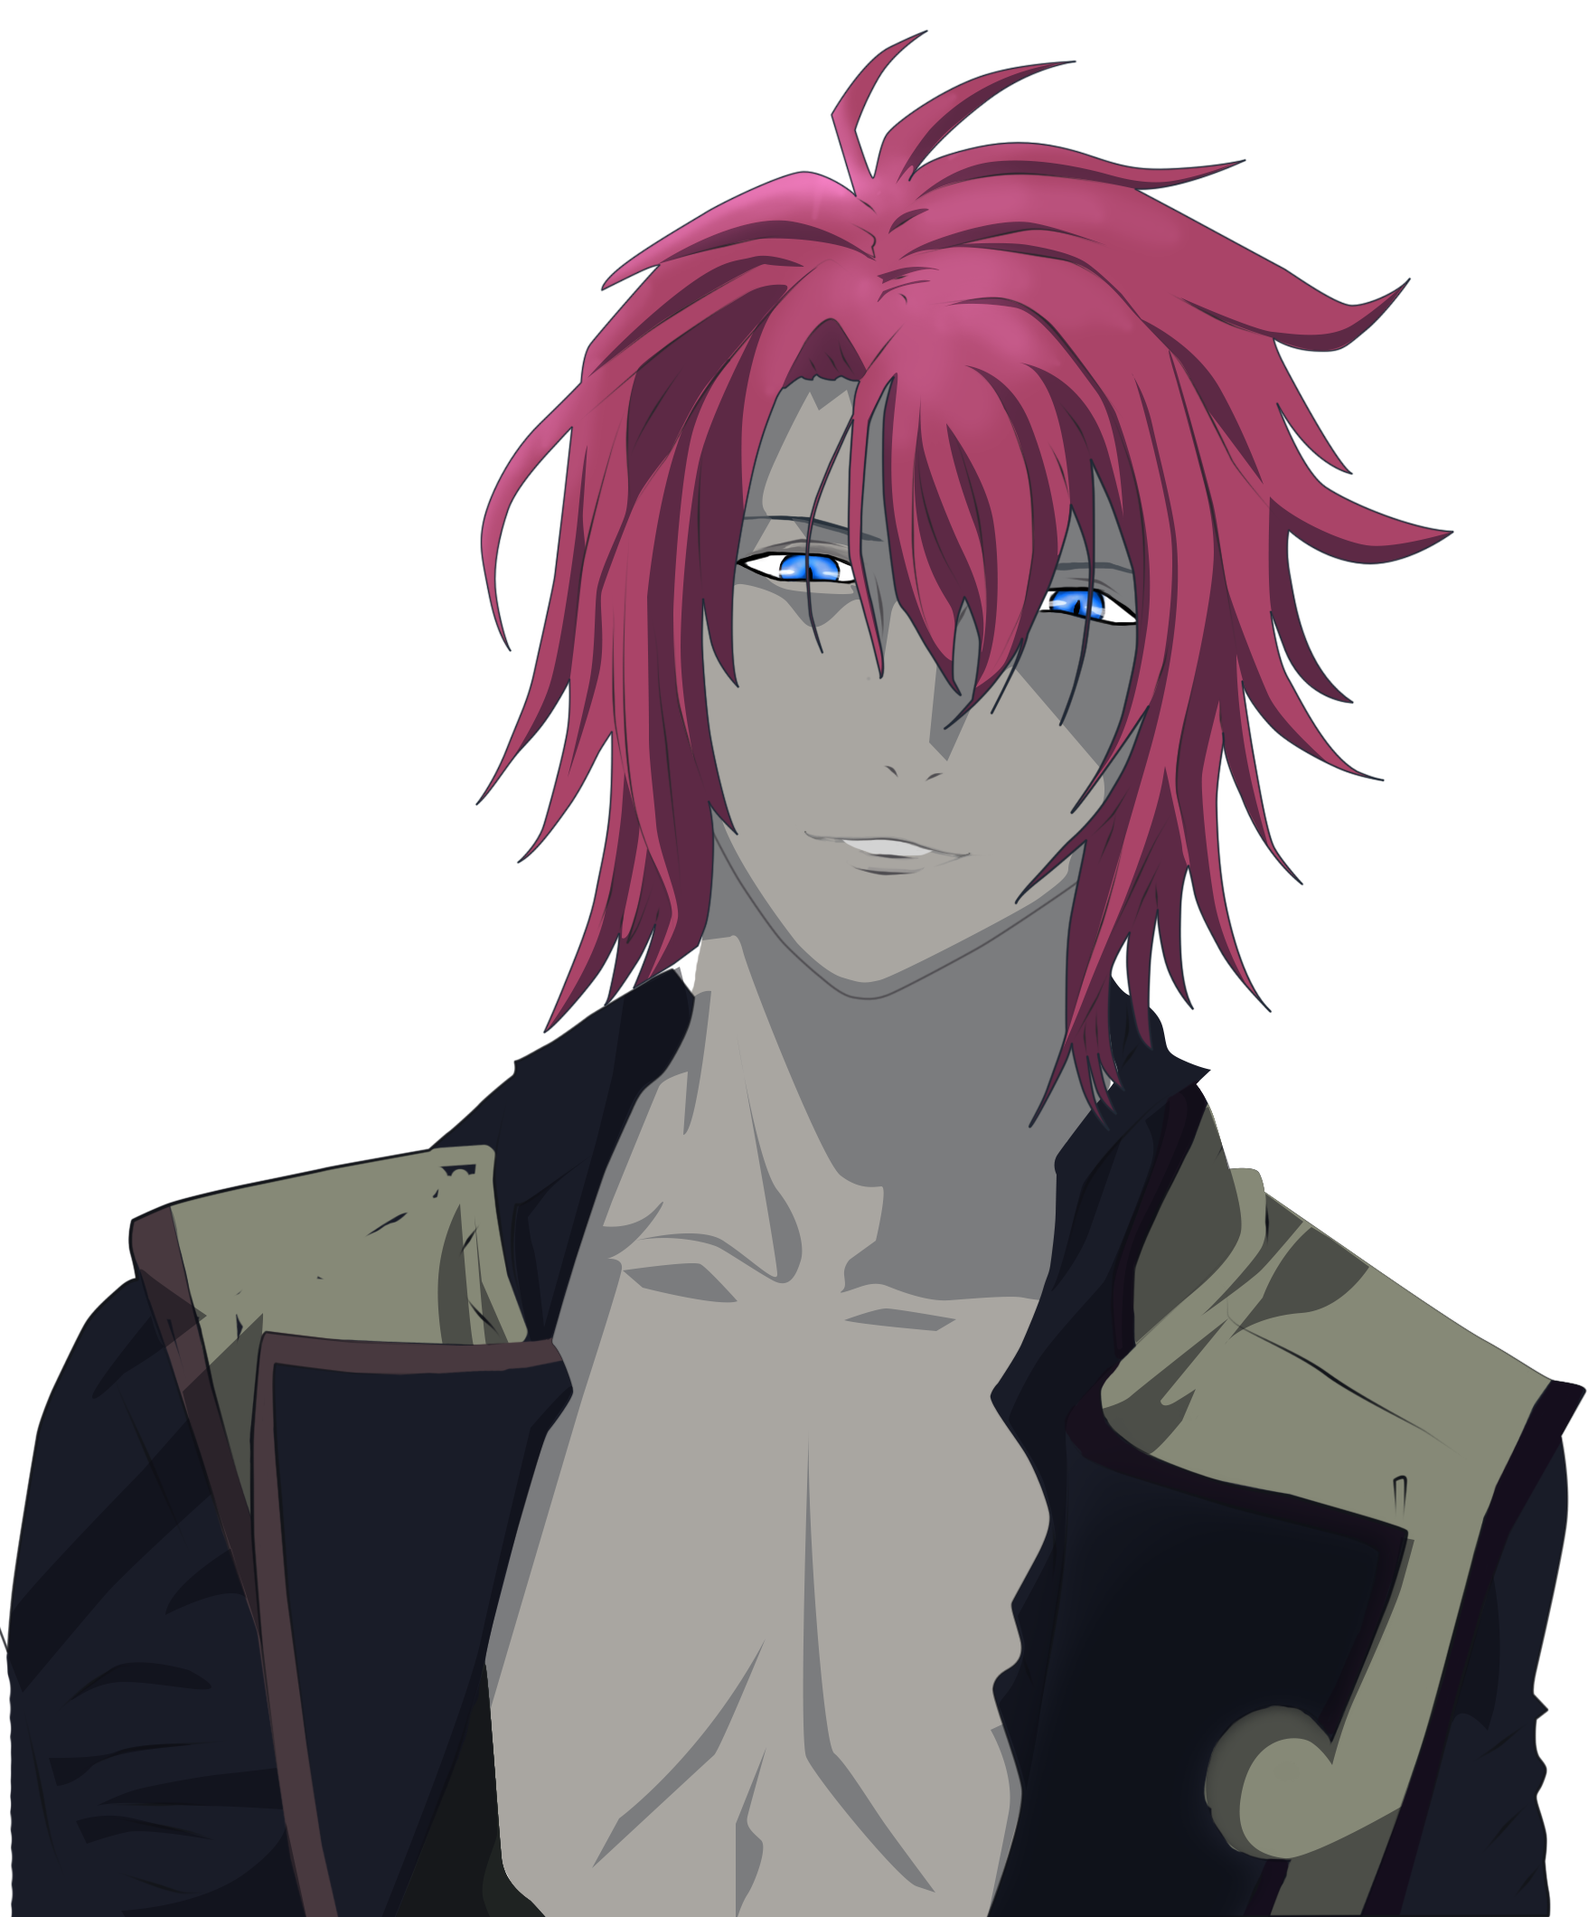
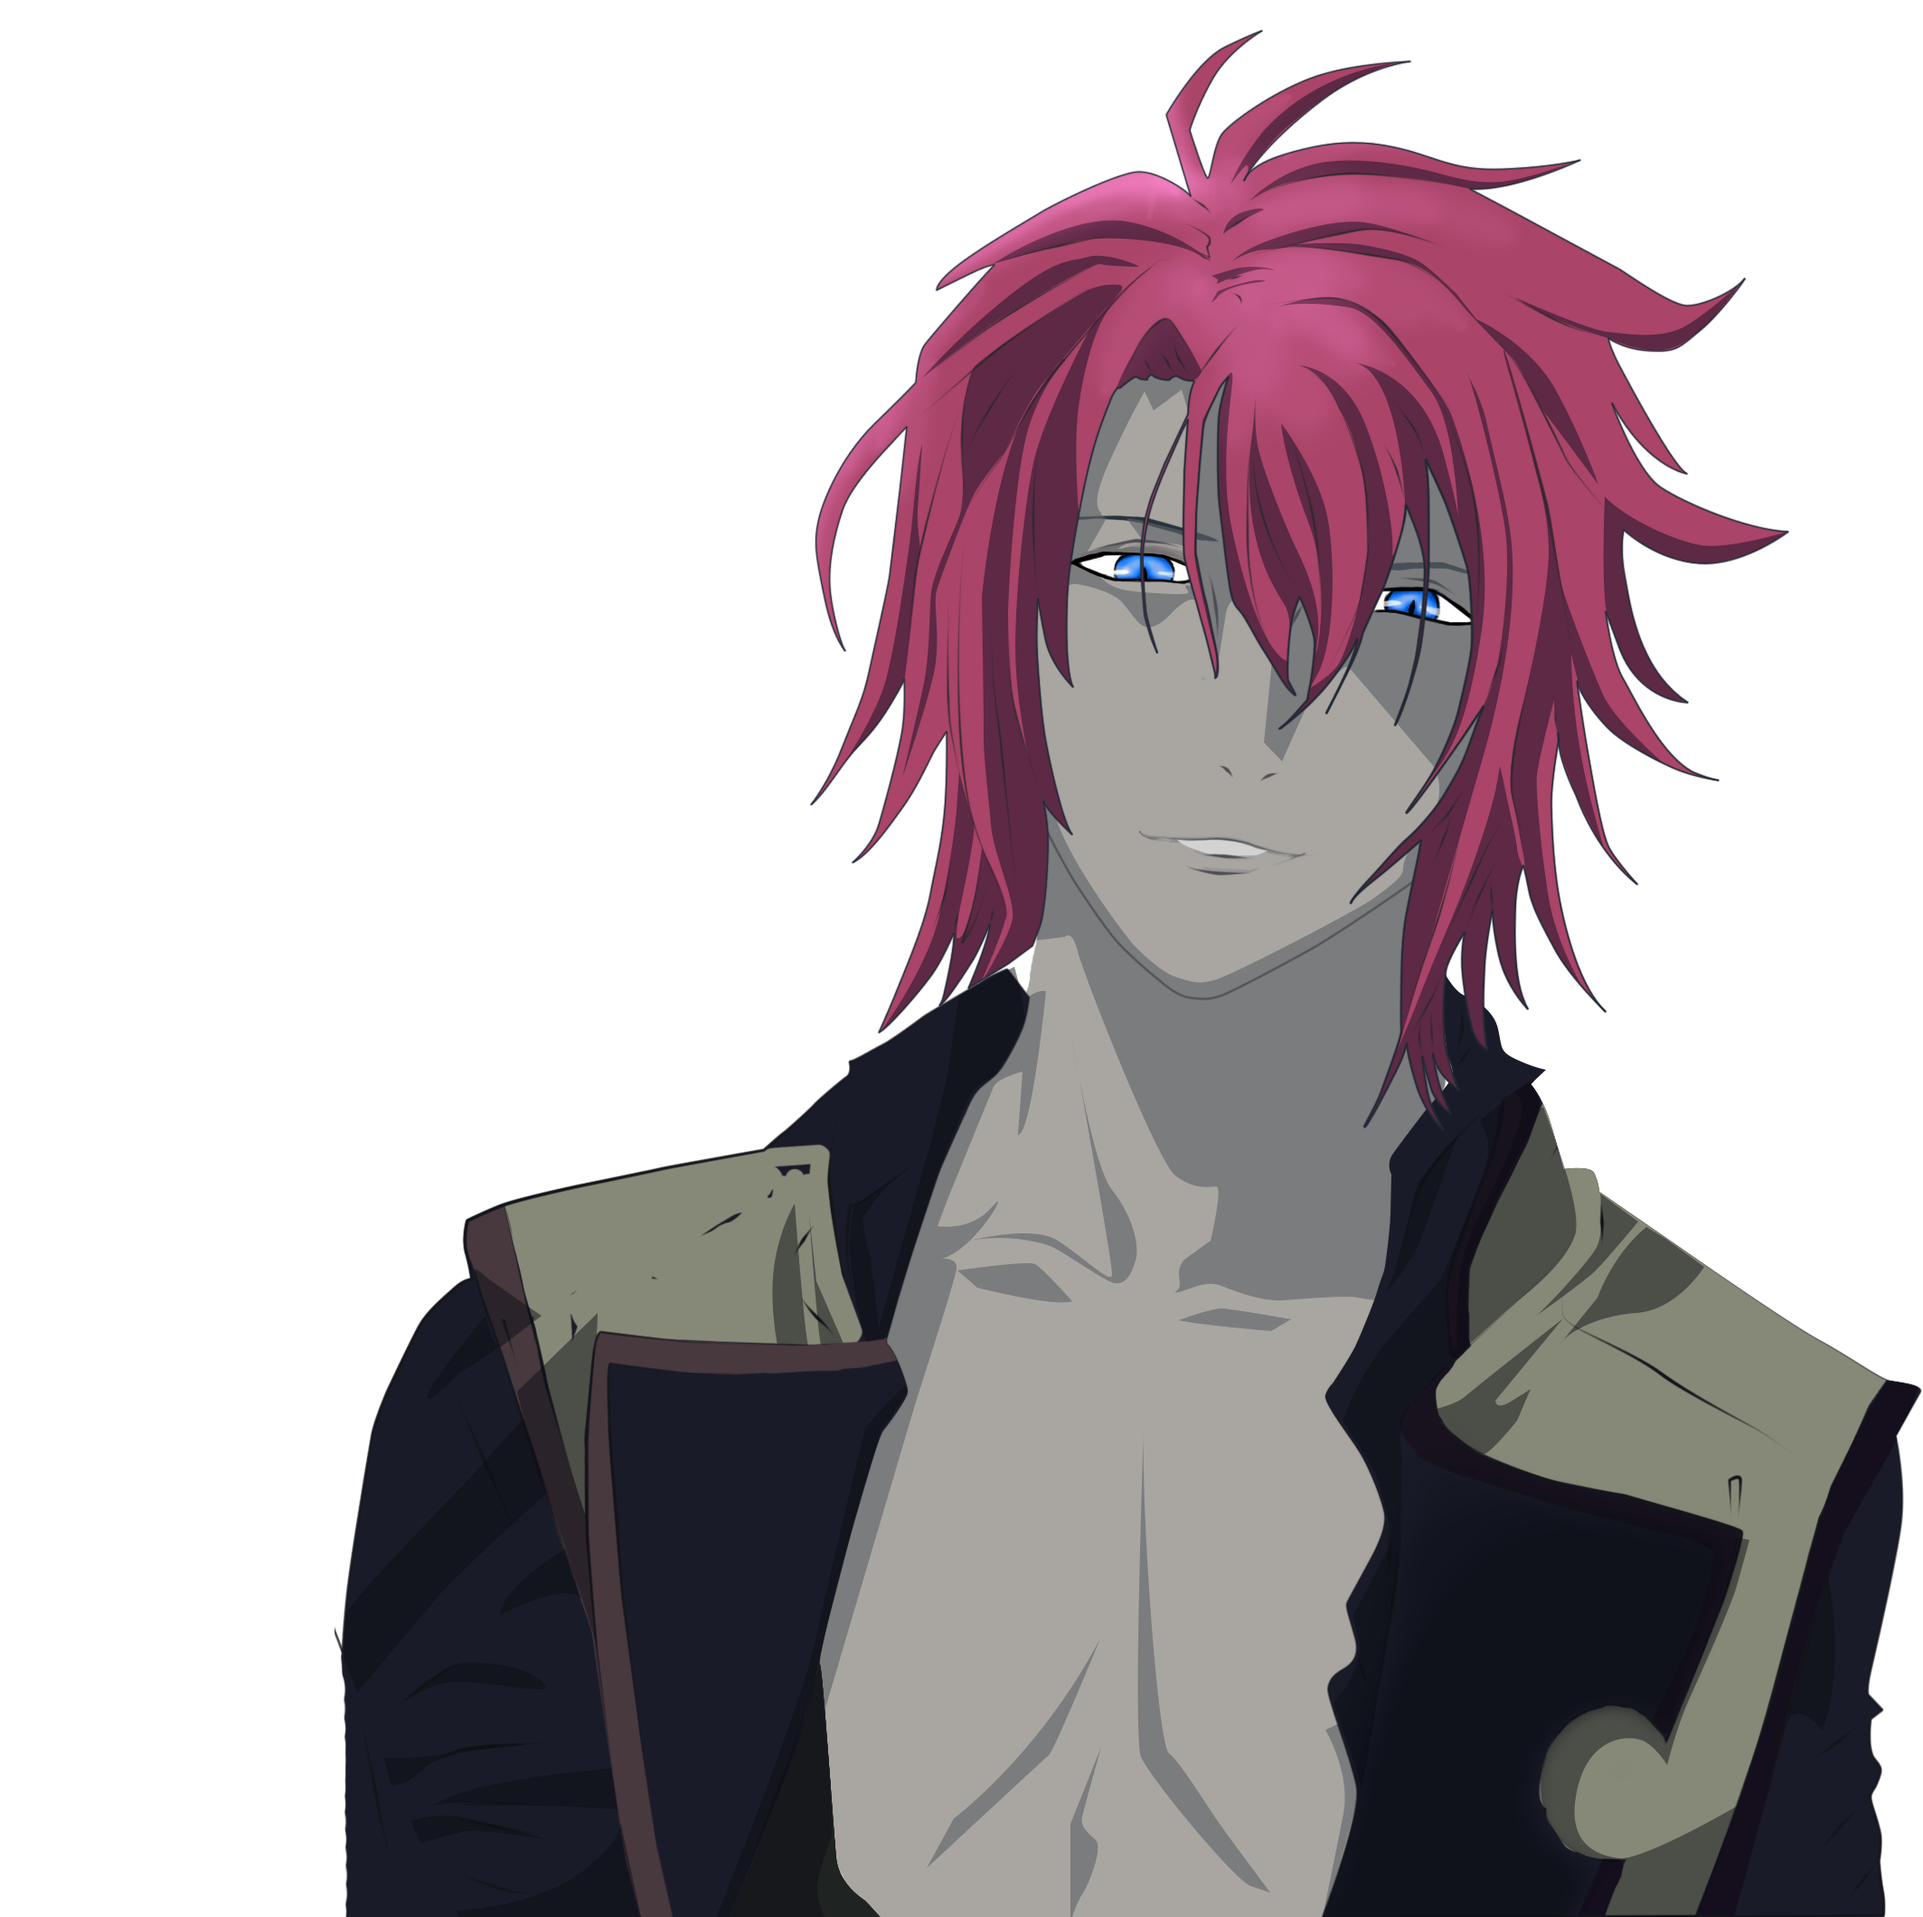
modif

diff --git a/www/js/otomeapp.js b/www/js/otomeapp.js
@@ -1,22 +1,63 @@
-let merci = new Question ("Je t'en prie. J'aurai cependant quelques questions à te poser...", [
-  new Answer("A propos de quoi ?"),
+let tuLeDis = new Question ("Passons aux sérieuses, je ne sais pas comment tu t'es retrouvé ici mais t'es vraiment dans le pétrin", [
+  new Answer("Bien sûr, je t'écoute."),
   new Answer("On peut attendre que je reprennes des forces ?"),
-  new Answer("Bien sûr, je t'écoute.")
+  new Answer("Et tu crois me faire peur.. J'en ai vue bien pire que toi mon choux!")
+]);
+
+let aQuiJeParle = new Question ("L'heure n'est pas au présentation! Tu es en danger, si ils te trouvent ici...", [
+  new Answer("Qui ils, arretes tu me fais peur ."),
+  new Answer("ok, on garde son calme"),
+  new Answer("Je suis prete à les acceuillires")
+]);
+
+let commentCa = new Question ("J'ai pas l'impression que tu comprennes dans quelle situation tu t'es mises", [
+  new Answer("Comment, je ne comprends pas... Je n'ai rien demandé"),
+  new Answer(" mais de quoi tu me parles.. quelle situation?" ),
+  new Answer("Relax Moi je m'adaptes à n'importe quel situation!", [])
+]);
+
+let maMere = new Question ("Du calme, on en est pas encore à là voyons", [
+  new Answer("... (rougis)"),
+  new Answer("mais tu plaisantes, je blaguais tout à l'heure.. Je veux rien à faire avec toi.. d'ailleurs je m'en vais"),
+  new Answer("ça me plait bien tout ça")
+]);
+
+let suisFoutu = new Question ("T'as rien à craindre si tu réponds bien à mes questions", [
+  new Answer("vas-y, je t'écoute."),
+  new Answer("On peut attendre que je reprennes des forces avant la séance interrogatoire?!"),
+  new Answer("Pourquoi je devrais répondre à tes questions d'abord?")
+]);
+
+let galopin = new Question ("Je te conseillerai de me parler sur un autre ton si tu ne veux pas que je me faches.", [
+  new Answer("Oui Mr le bizarroide, a vos ordre."),
+  new Answer("nia nia nia ?"),
+  new Answer("Et tu crois me faire peur.. J'en ai vue bien pire que toi mon choux!")
+]);
+
+let laiss = new Question("A");
+let laissaaa = new Question("B");
+let laissuuu = new Question("C");
+let laisserAttache = new Question ("À ce que je vois t'es une petite coquine...Je suis désolé mais on a pas le temps à ça", [
+  new Answer("c'est bon ça va relax?", laiss),
+  new Answer("t'es pas un marrant toi!", laissaaa),
+  new Answer("Oui je sais, on me le dit souvent.", laissuuu)
 ]);
 let quiEsTu = new Question("Moi ? Ca n'a pas d'importance...", [
-  new Answer("Comment ça ?"),
-  new Answer("Je préfèrerai savoir à qui je parle..."),
-  new Answer("Si tu le dis...")
+  new Answer("Comment ça ?", commentCa ),
+  new Answer("Je préfèrerai savoir à qui je parle...", aQuiJeParle),
+  new Answer("Si tu le dis...", tuLeDis)
 ]);
-let ouSommesNous = new Question ("Nous sommes au QG de l'Alliance.", [
-  new Answer("L’alliance ?", -15),
-  new Answer("Je suis vraiment mal tombé...", -5),
-  new Answer("Dieu merci !", 10)
+
+let ouSommesNous = new Question ("Tu le sauras bien assez tôt petit galopin.", [
+  new Answer("Je ne suis pas ton petit galopin sac à patate", galopin,-25),
+  new Answer("Ça y est, je suis foutu...",suisFoutu ,-5),
+  new Answer("Ma mère m'appelait comme ça ! ça me plait bien ",maMere, 10)
 ]);
+
 let firstQuestion = new Question ("Tu es réveillé! Désolé pour ce traitement, je vais te détacher...", [
-  new Answer("Où somme nous ?", ouSommesNous, -10),
-  new Answer("Qui es-tu ??", quiEsTu, -20),
-  new Answer("Merci...", merci, 40)
+  new Answer("Où sommes-nous ? Ne t'approche pas de moi !", ouSommesNous, -10),
+  new Answer("Qui es-tu ? Qu'est-ce que je fais là ?", quiEsTu, -20),
+  new Answer("..ou tu peux me laisser attaché beau gosse...", laisserAttache, 40)
 ]);
 
 let currentQuestion = firstQuestion;
@@ -24,6 +65,7 @@ let moodbar = 25;
 
 let section = document.querySelector('#button');
 let moodbarProgress = document.querySelector('.hideb');
+let orage = document.querySelector('.orage');
 
 let prota = new Character('taurus', 'O+', 'green');
 let wWalker = new Character('taurus', 'A+', 'green');
@@ -46,9 +88,25 @@ if (prota.colors === wWalker.colors) {
 
 display();
 
+/*
+showOrage();
+function showOrage() {
+  setTimeout(function () {
+    orage.classList.add('orage-animation');
+    setTimeout(function() {
+      orage.classList.remove('orage-animation');
+      showOrage();
+    }, 1000);
+  }, 0);
+}
+*/
+
 function display (){
   if (moodbar <= 30) {
+   
     document.querySelector('.characterA').style.display = "block";
+  }else {
+    document.querySelector('.characterA').style.display = "none"; 
   }
 
   if (moodbar >= 50) {

diff --git a/www/css/otome.css b/www/css/otome.css
@@ -4,6 +4,7 @@ body {
 }
 
 .container {
+  display: block;
   position: relative;
   width: 1100px;
   height: 550px;
@@ -14,6 +15,7 @@ body {
   margin: 50px auto;
   border-radius: 25px;
   box-shadow: 0px 0px 10px 3px rgba(15, 12, 20, 0.651);
+  overflow: hidden;
 }
 
 .rain {
@@ -21,8 +23,55 @@ body {
   height: 550px;
   border-radius: 25px;
   position: absolute;
-  opacity: 0.2;
+  opacity: 0.3;
+}
+
+@keyframes orage {
+  0% {
+    opacity: 0;
+  }
+
+  2% {
+    opacity: 0.9;
+  }
+
+  6% {
+    opacity: 0.2;
+  }
+
+  12% {
+    opacity: 0.5;
+  }
+
+  16% {
+    opacity: 0.2;
+  }
+
+  20% {
+    opacity: 0.6;
+  }
+
+  30% {
+    opacity: 0;
+  }
   
+  100% {
+    opacity: 0;
+  }
+}
+
+.orage {
+  position: absolute;
+  top: 0;
+  left: 0;
+  width: 100%;
+  height: 100%;
+  background: linear-gradient(35deg, rgba(255,255,255,0) 0%,rgb(217, 252, 249) 100%);
+  opacity: 0;
+  animation-name: orage;
+  animation-duration: 4s;
+  animation-timing-function: ease-in;
+  animation-iteration-count: infinite;
 }
 
 .barre {
@@ -66,10 +115,11 @@ body {
 .character {
   position: absolute;
   bottom: 0;
-  width: 439px;
+  width: 532px;
   height: 530px;
   background-image: url('/image/soujitransfpers.png');
   background-size: 100%;
+  background-repeat: no-repeat;
   z-index: 0;
   left: 40%;
   
@@ -79,11 +129,13 @@ body {
   display: none;
   bottom: 0;
   position: absolute;
-  z-index: 2;
-  width: 439px;
+  z-index: 1;
+  width: 532px;
   height: 530px;
   background-size: 100%;
-  background-image: url('/image/SoujiAngry.png');
+  background-image: url('/image/soujiAngry.png');
+  background-repeat: no-repeat;
+  
   left: 40%;
 }
 
@@ -91,12 +143,65 @@ body {
   display: none;  
   bottom: 0;
   position: absolute;
-  width: 439px;
+  width: 532px;
   height: 530px;
   left: 40%;  
   background-size: 100%;
-  z-index: 2;
-  background-image: url('/image/SoujiHappy.png');
+  z-index: 1;
+  background-image: url('/image/soujiHappy.png');
+  background-repeat: no-repeat;
+  
+}
+
+@keyframes vampire {
+  0% {
+    opacity: 0;
+  }
+
+  1% {
+    opacity: 0.9;
+  }
+
+  3% {
+    opacity: 0.2;
+  }
+
+  6% {
+    opacity: 0.5;
+  }
+
+  8% {
+    opacity: 0.2;
+  }
+
+  10% {
+    opacity: 0.6;
+  }
+
+  15% {
+    opacity: 0;
+  }
+  
+  100% {
+    opacity: 0;
+  }
+}
+
+.characterV {  
+  bottom: 0;
+  position: absolute;
+  width: 532px;
+  height: 530px;
+  left: 40%;  
+  background-size: 100%;
+  z-index: 1;
+  background-image: url('/image/soujiVampire.png');
+  background-repeat: no-repeat;
+  opacity: 0;
+  animation-name: vampire;
+  animation-duration: 8s;
+  animation-timing-function: ease-in;
+  animation-iteration-count: infinite;
 }
 
 .ui {
@@ -116,6 +221,7 @@ body {
 }
 
 #message {
+  flex: 1;
   color: rgb(255, 255, 255);
   font-family: 'Nunito', sans-serif;
   font-size: 20px;
@@ -135,18 +241,26 @@ body {
   display: flex;
   flex-direction: column;
   justify-content: flex-end;
-
+  align-items: flex-start;
+  background-color: rgba(9, 9, 31, 0.418);
+  margin-top: 88px;
+  margin-bottom: 14px;
+  border-radius: 5px;
+  border: rgba(143, 189, 190, 0.561) solid 1px;
+  margin-left: 130px;
+  margin-right: 120px;
 }
 
 button {
   cursor: pointer;
-  padding: 0px 270px;
+  padding: 0px 200px;
   border-radius: 10px;
   border: none;
   background: transparent;
   color: white;
-  margin-bottom: 30px;
+  margin: 12px 0;
   font-family: 'Nunito', sans-serif;
-  font-size: 15px;
+  font-size: 18px;
   text-align: left;
+
 }

diff --git a/www/mainMenu.html b/www/mainMenu.html
@@ -5,17 +5,16 @@
   <meta name="viewport" content="width=device-width, initial-scale=1.0">
   <meta http-equiv="X-UA-Compatible" content="ie=edge">
   <link rel="stylesheet" href="css/main.css">
+  <link href="https://fonts.googleapis.com/css?family=Nunito" rel="stylesheet">
   <title>Document</title>
+
 </head>
 <body>
     <section class="mainMenu">
+        <h1>twu-ail-lite</h1>
         <a href="otome.html" class="button play">
             play
         </a>
-        <a href="#" class="button inst">
-            Instructions
-        </a>
-
     </section>
 
     <script type="text/javascript" src="instructions.js" ></script>

diff --git a/www/otome.html b/www/otome.html
@@ -15,7 +15,9 @@
       <div class="character"></div>
       <div class="characterA"></div>
       <div class="characterH"></div>
+      <div class="characterV"></div>
       <div><img class="rain" src="/image/rain.gif" alt="rain"></div>
+      <div class="orage"></div>
       <div class="ui">
         <h2 id="message"></h2>
         <div class="barre">
@@ -27,6 +29,7 @@
         </div>
         <img class="bulle" src="/image/bulleprota.png" alt="">
         <section id="button">
+
         </section>
       </div>
   </div>

diff --git a/www/css/main.css b/www/css/main.css
@@ -33,3 +33,10 @@ body {
   text-transform: uppercase;
   
 }
+
+h1 {
+  color: whitesmoke;
+  font-size: 90px;
+  font-family: 'Nunito', sans-serif;
+  text-transform: uppercase; 
+}
